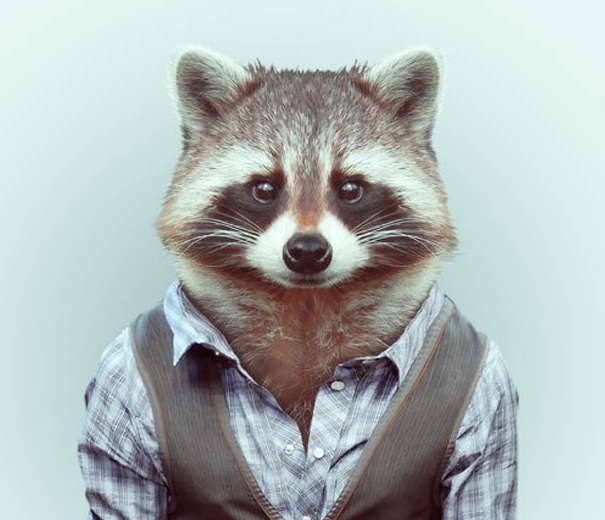
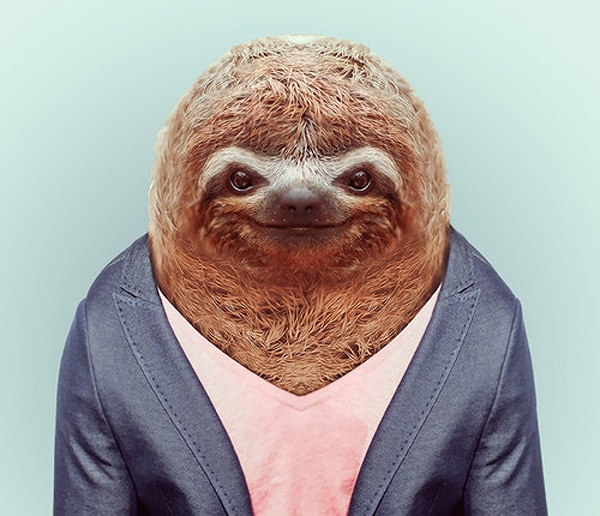
Modified text in index.html
Modified display text in carousel element

diff --git a/index.html b/index.html
@@ -82,7 +82,7 @@
                                     </div>
                             </div>
 
-                            <!--Carousel: Images must have the same aspect ratio to maintain size-->
+                            <!--Carousel: Images must have the same aspect ratio to maintain size (Current 605x520)-->
                             <div class="container">
                                 <h3><strong><u>Officers & Advisor</u></strong></h3>
                                 <div id="myCarousel" class="carousel slide" data-ride="carousel">
@@ -91,6 +91,9 @@
                                     <li data-target="#myCarousel" data-slide-to="0" class="active"></li>
                                     <li data-target="#myCarousel" data-slide-to="1"></li>
                                     <li data-target="#myCarousel" data-slide-to="2"></li>
+                                    <li data-target="#myCarousel" data-slide-to="3"></li>
+                                    <li data-target="#myCarousel" data-slide-to="4"></li>
+                                    <li data-target="#myCarousel" data-slide-to="5"></li>
                                   </ol>
 
                                   <!-- Wrapper for slides -->
@@ -100,7 +103,7 @@
                                       <img src="img/animal0.png" alt="Giovanni Artavia" style="width:100%;">
                                       <div class="carousel-caption">
                                         <h3><b>Giovanni A</b></h3>
-                                        <p>Position Title <br> Personal Website <br>giovaartavia@ku.edu </p>
+                                        <p>PRESIDENT<br> Personal Website <br>giovaartavia@ku.edu </p>
                                       </div>
                                     </div>
 
@@ -108,7 +111,7 @@
                                       <img src="img/animal1.png" alt="Brandon Lammey" style="width:100%;">
                                       <div class="carousel-caption">
                                         <h3><b>Brandon L</b></h3>
-                                        <p>Position Title <br> Personal Website <br> archerlammey@ku.edu</p>
+                                        <p>VICE PRESIDENT <br> Personal Website <br> archerlammey@ku.edu</p>
                                       </div>
                                     </div>
 
@@ -116,8 +119,32 @@
                                       <img src="img/animal2.png" alt="Ashli Mosiman" style="width:100%;">
                                       <div class="carousel-caption">
                                         <h3><b>Asheli M</b></h3>
-                                        <p>Position Title <br> Personal Website</p>
+                                        <p>EVENT COORDINATOR <br> Personal Website <br> email</p>
                                       </div>
+                                    </div>
+
+                                    <div class="item active">
+                                        <img src="img/animal3.png" alt="James Glass" style="width:100%;">
+                                        <div class="carousel-caption">
+                                            <h3><b>James G</b></h3>
+                                            <p>TREASURER <br> Personal Website <br>email </p>
+                                        </div>
+                                    </div>
+      
+                                    <div class="item">
+                                        <img src="img/animal4.png" alt="Dylan Herrig" style="width:100%;">
+                                        <div class="carousel-caption">
+                                            <h3><b>Dylan H</b></h3>
+                                            <p>SOCIAL CHAIR <br> Personal Website <br> email</p>
+                                        </div>
+                                    </div>
+      
+                                    <div class="item">
+                                        <img src="img/animal5.png" alt="Paul Kline" style="width:100%;">
+                                        <div class="carousel-caption">
+                                            <h3><b>Paul K</b></h3>
+                                            <p>ADVISOR <br> Personal Website <br> email</p>
+                                        </div>
                                     </div>
 
                                   </div>

diff --git a/css/style.css b/css/style.css
@@ -866,7 +866,7 @@ btn:visited
     height: 100%;
     width: 100%;
     z-index: -1;
-    opacity: .15;
+    opacity: .30;
     overflow: hidden;
     
 }
